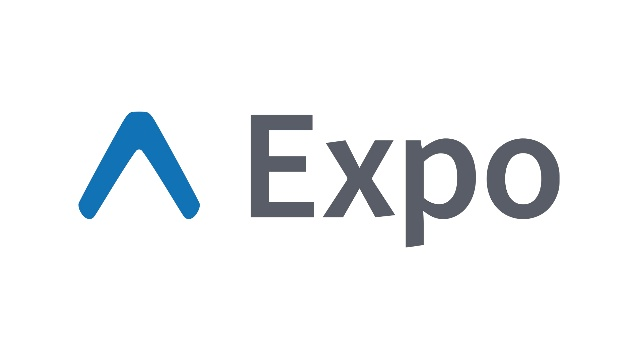
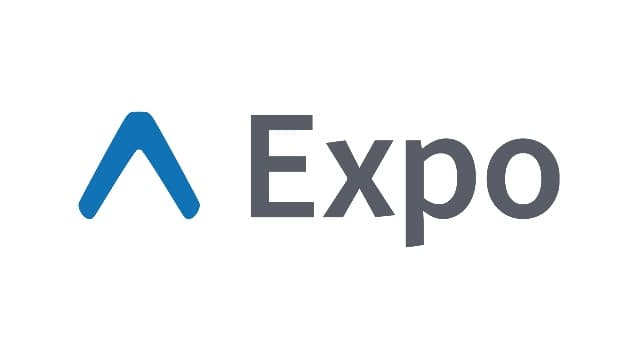
Optimize images

Changed region(s): [[0.268, 0.5822, 0.3276, 0.6128], [0.268, 0.4903, 0.2978, 0.5209], [0.1191, 0.5822, 0.1489, 0.6128]]

diff --git a/src/sections/Work.tsx b/src/sections/Work.tsx
@@ -8,31 +8,31 @@ import SubHeading from "../components/SubHeading";
 const WORK_PROJECTS = [
   {
     href: "https://blog.replit.com/deeplinking",
-    image: "/deeplinking.png",
+    image: "/deeplinking.jpg",
     title: "Deeplinking",
     description: "Link to a specific file, line, and column in a project.",
   },
   {
     href: "https://blog.replit.com/multitabs",
-    image: "/multitabs.png",
+    image: "/multitabs.jpg",
     title: "Tabs",
     description: "Open multiple files in different tabs.",
   },
   {
     href: "https://blog.replit.com/commandbar",
-    image: "/search.png",
+    image: "/search.jpg",
     title: "Search",
     description: "Project-wide search.",
   },
   {
     href: "https://blog.replit.com/tabbed-shell",
-    image: "/tabbed-shell.png",
+    image: "/tabbed-shell.jpg",
     title: "Tabbed Shell",
     description: "Easier access to a fully functioning Linux shell.",
   },
   {
     href: "https://blog.replit.com/markdown-preview",
-    image: "/markdown-preview.png",
+    image: "/markdown-preview.jpg",
     title: "Markdown Preview",
     description: "A real time preview pane for markdown files.",
   },
@@ -50,19 +50,19 @@ const WORK_PROJECTS = [
   },
   {
     href: "https://blog.replit.com/vite",
-    image: "/vite.png",
+    image: "/vite.jpg",
     title: "Vite",
     description: "A faster and leaner React template.",
   },
   {
     href: "https://blog.replit.com/collaborative-coding",
-    image: "/collaborative-coding.png",
+    image: "/collaborative-coding.jpg",
     title: "Observation Mode",
     description: "Follow another online user's cursor as they code.",
   },
   {
     href: "https://blog.replit.com/collaborative-coding",
-    image: "/filetree-presence.png",
+    image: "/filetree-presence.jpg",
     title: "Filetree Presence",
     description: "See which files other online users have open.",
   },

diff --git a/src/sections/Talks.tsx b/src/sections/Talks.tsx
@@ -8,25 +8,25 @@ import SubHeading from "../components/SubHeading";
 const TALKS = [
   {
     href: "https://talks.sergei.com/ship",
-    image: "/shipfast.png",
+    image: "/shipfast.jpg",
     title: "How to Ship Fast",
     description: "How to move quickly as an engineering team.",
   },
   {
     href: "https://talks.sergei.com/privacy",
-    image: "/privacy.png",
+    image: "/privacy.jpg",
     title: "On Internet Privacy",
     description: "Internet privacy and why it's important.",
   },
   {
     href: "https://talks.sergei.com/schedule-helper",
-    image: "/howimadeschedulehelper.png",
+    image: "/howimadeschedulehelper.jpg",
     title: "How I Made ScheduleHelper",
     description: "What I learned building ScheduleHelper",
   },
   {
     href: "https://talks.sergei.com/html-css",
-    image: "/html-css.png",
+    image: "/html-css.jpg",
     title: "HTML + CSS Workshop",
     description: "An introduction to HTML + CSS.",
   },

diff --git a/src/sections/Projects.tsx b/src/sections/Projects.tsx
@@ -53,7 +53,7 @@ const PERSONAL_PROJECTS = [
   },
   {
     href: "https://github.com/sergeichestakov/expo-yelp",
-    image: "/expo-yelp.png",
+    image: "/expo-yelp.jpg",
     title: "Expo Yelp",
     description: "Minimal Yelp Client built using Expo.",
   },
@@ -65,7 +65,7 @@ const PERSONAL_PROJECTS = [
   },
   {
     href: "https://github.com/mattrasto/phase",
-    image: "/phase.png",
+    image: "/phase.jpg",
     title: "Phase",
     description:
       "Graph visualization library for complex systems and simulations.",
